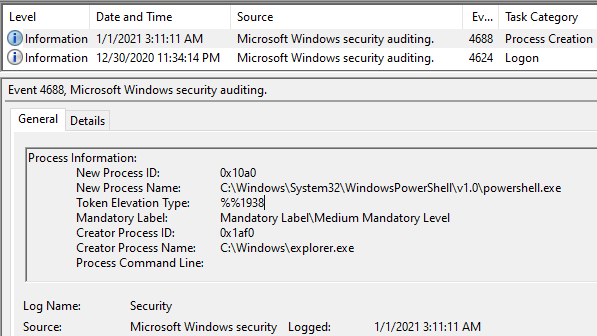
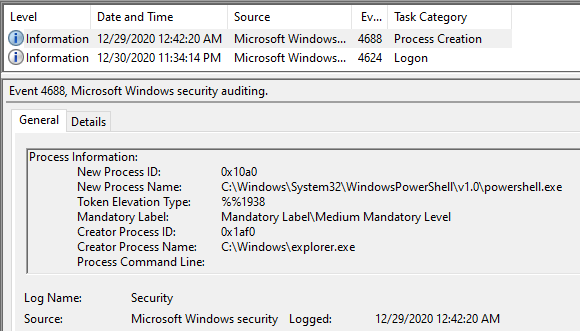
added IncrementTimestampStep, modified usecase 003

diff --git a/usecases/003_change_timestamp.py b/usecases/003_change_timestamp.py
@@ -1,7 +1,7 @@
-from Workflow.ModifyStep import ModifyTimestampStep
+from Workflow.ModifyStep import ModifyTimestampStep, IncrementTimestampStep
 from Workflow.Workflow import *
 
-def main(src, dest, eventrecordid, new_timestamp):
+def main(src, dest, eventrecordid, days, hours, minutes, seconds, microseconds):
     # initialize Workflow
     workflow = Workflow()
 
@@ -9,7 +9,7 @@ def main(src, dest, eventrecordid, new_timestamp):
     filter_subj = WorkflowStepFilter()
     filter_subj.add_system_filter("EventRecordID", eventrecordid)
     # create and add step to workflow
-    step = ModifyTimestampStep(filter_subj, datetime.datetime.strptime(new_timestamp, "%Y-%m-%d %H:%M:%S"))
+    step = IncrementTimestampStep(filter_subj, days=days, hours=hours, minutes=minutes, seconds=seconds, microseconds=microseconds)
     workflow.add_step(step)
 
     # start workflow
@@ -22,6 +22,10 @@ if __name__ == "__main__":
     parser.add_argument("src", type=str, help="Path to the source Windows EVTX event log file")
     parser.add_argument("dest", type=str, help="Path to the source Windows EVTX event log file")
     parser.add_argument("eventrecordid", type=str, help="Event record id")
-    parser.add_argument("new_timestamp", type=str, help="new timestamp for record in format YYYY-mm-dd HH:MM:SS")
+    parser.add_argument("--days", type=int, default=0, help="Increment/Decrement days")
+    parser.add_argument("--hours", type=int, default=0, help="Increment/Decrement days")
+    parser.add_argument("--minutes", type=int, default=0, help="Increment/Decrement days")
+    parser.add_argument("--seconds", type=int, default=0, help="Increment/Decrement days")
+    parser.add_argument("--microseconds", type=int, default=0, help="Increment/Decrement days")
     args = parser.parse_args()
-    main(args.src, args.dest, args.eventrecordid, args.new_timestamp)
+    main(args.src, args.dest, args.eventrecordid, args.days, args.hours, args.minutes, args.seconds, args.microseconds)

diff --git a/Workflow/ModifyStep.py b/Workflow/ModifyStep.py
@@ -17,6 +17,7 @@
 #
 #   Version v. 1.0.0
 #
+import datetime
 import logging
 
 from Workflow import FilterUtils, NodeUtils, WriteUtils
@@ -104,6 +105,19 @@ class ModifyTimestampStep(ModifyAttributeValueStep):
     def __init__(self, evtx_filter, new_value):
         super(ModifyTimestampStep, self).__init__(evtx_filter, new_value, element_name="TimeCreated", attribute_name="SystemTime")
 
+class IncrementTimestampStep(ModifyTimestampStep):
+    def __init__(self, evtx_filter, days=0, hours=0, minutes=0, seconds=0, microseconds=0):
+        super(IncrementTimestampStep, self).__init__(evtx_filter, None)
+
+        self.timedelta = datetime.timedelta(days=days, hours=hours, minutes=minutes, seconds=seconds, microseconds=microseconds)
+
+    def execute(self, record, element, root):
+        old_value_node = NodeUtils.get_attribute_value(element, self.attribute_name)
+        old_value = NodeUtils.get_readable_value(old_value_node, root)
+        old_value_dt = datetime.datetime.strptime(old_value, "%Y-%m-%d %H:%M:%S.%f")
+        self.new_value = old_value_dt + self.timedelta
+
+        super(IncrementTimestampStep, self).execute(record, element, root)
 
 class IncrementElementValueStep(ModifyElementValueStep):
     def __init__(self, evtx_filter, new_value, element_name=None, attribute_value=None, attribute_name=None):

diff --git a/usecases/README.md b/usecases/README.md
@@ -60,7 +60,7 @@ optional arguments:
 
 ## 003 Change timestamp
 
-This use case changes the time generated timestamp for a given event record ID.
+This use case changes the TimeGenerated timestamp for a given event record ID. The timestamp can be incremented or decremented.
 
 **Note**: Currently the order of the events is not changed.
 
@@ -68,18 +68,27 @@ See [003_change_timestamp.py](003_change_timestamp.py)
 
 ```shell
 $ python3 -m usecases.003_change_timestamp -h
-usage: 003_change_timestamp.py [-h] src dest eventrecordid new_timestamp
+usage: 003_change_timestamp.py [-h] [--days DAYS] [--hours HOURS]
+                               [--minutes MINUTES] [--seconds SECONDS]
+                               [--microseconds MICROSECONDS]
+                               src dest eventrecordid
 
 Changes the time generated of a given record
 
 positional arguments:
-  src            Path to the source Windows EVTX event log file
-  dest           Path to the source Windows EVTX event log file
-  eventrecordid  Event record id
-  new_timestamp  new timestamp for record in format YYYY-mm-dd HH:MM:SS
+  src                   Path to the source Windows EVTX event log file
+  dest                  Path to the source Windows EVTX event log file
+  eventrecordid         Event record id
 
 optional arguments:
-  -h, --help     show this help message and exit
+  -h, --help            show this help message and exit
+  --days DAYS           Increment/Decrement days
+  --hours HOURS         Increment/Decrement days
+  --minutes MINUTES     Increment/Decrement days
+  --seconds SECONDS     Increment/Decrement days
+  --microseconds MICROSECONDS
+                        Increment/Decrement days
+
 
 ```
 
